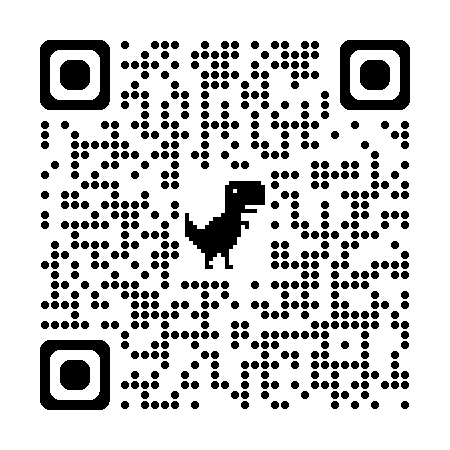
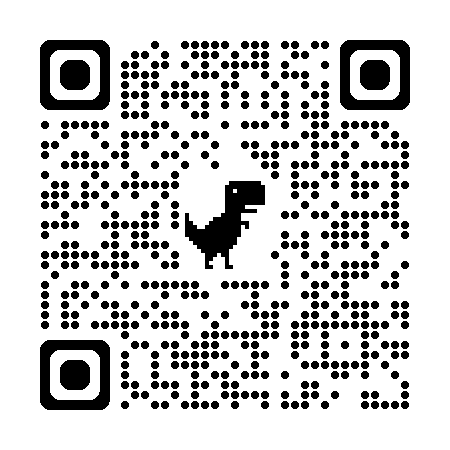
site

diff --git a/index.html b/index.html
@@ -152,7 +152,7 @@
     <footer id="rodape">
         <div class="container">
         <div>
-            <p>&#169; - <span id="copyrightYear"></span><a href="https://lucashenriquepereirasilva.github.io/Site/">Lucas henrique</a></p>
+            <p>&#169; - <span id="copyrightYear"></span><a href="https://lucashenriquepereirasilva.github.io/Site/"> Lucas henrique</a></p>
             </div>
             <div id="social">
             <a href="https://www.linkedin.com/feed/?trk=guest_homepage-basic_nav-header-signin" target="_blank"><img src="imagens/linkedin.png" alt="github"></a>

diff --git a/README.md b/README.md
@@ -1,1 +1,2 @@
 # site
+ <img href="img/qrcode.png">
